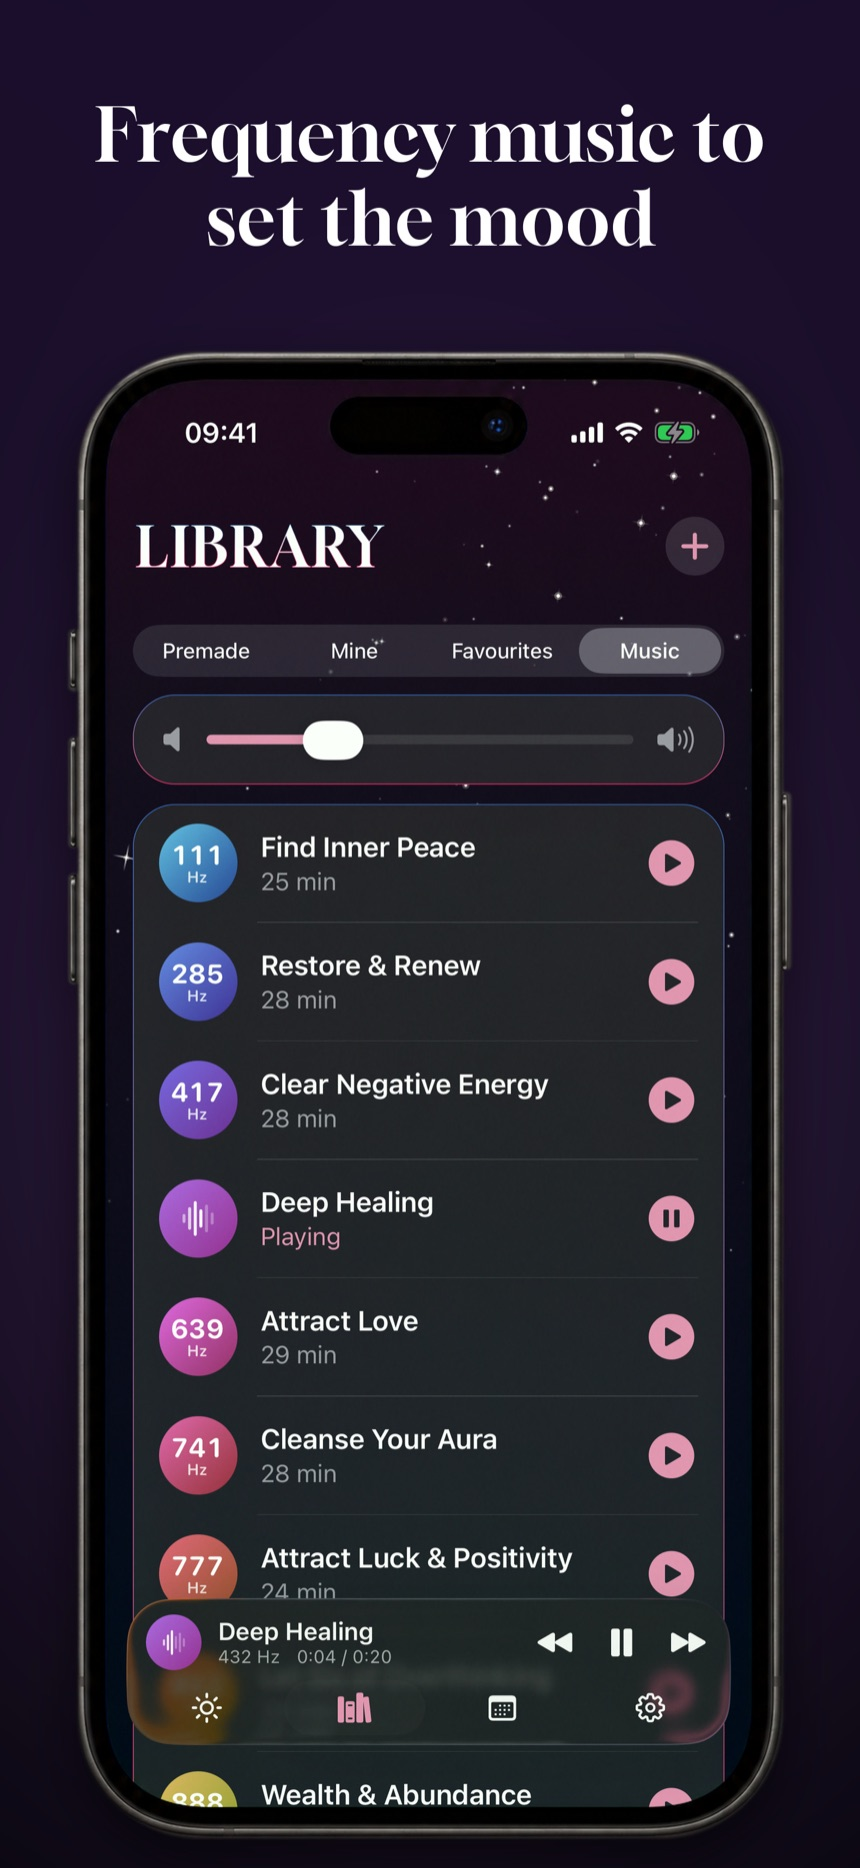
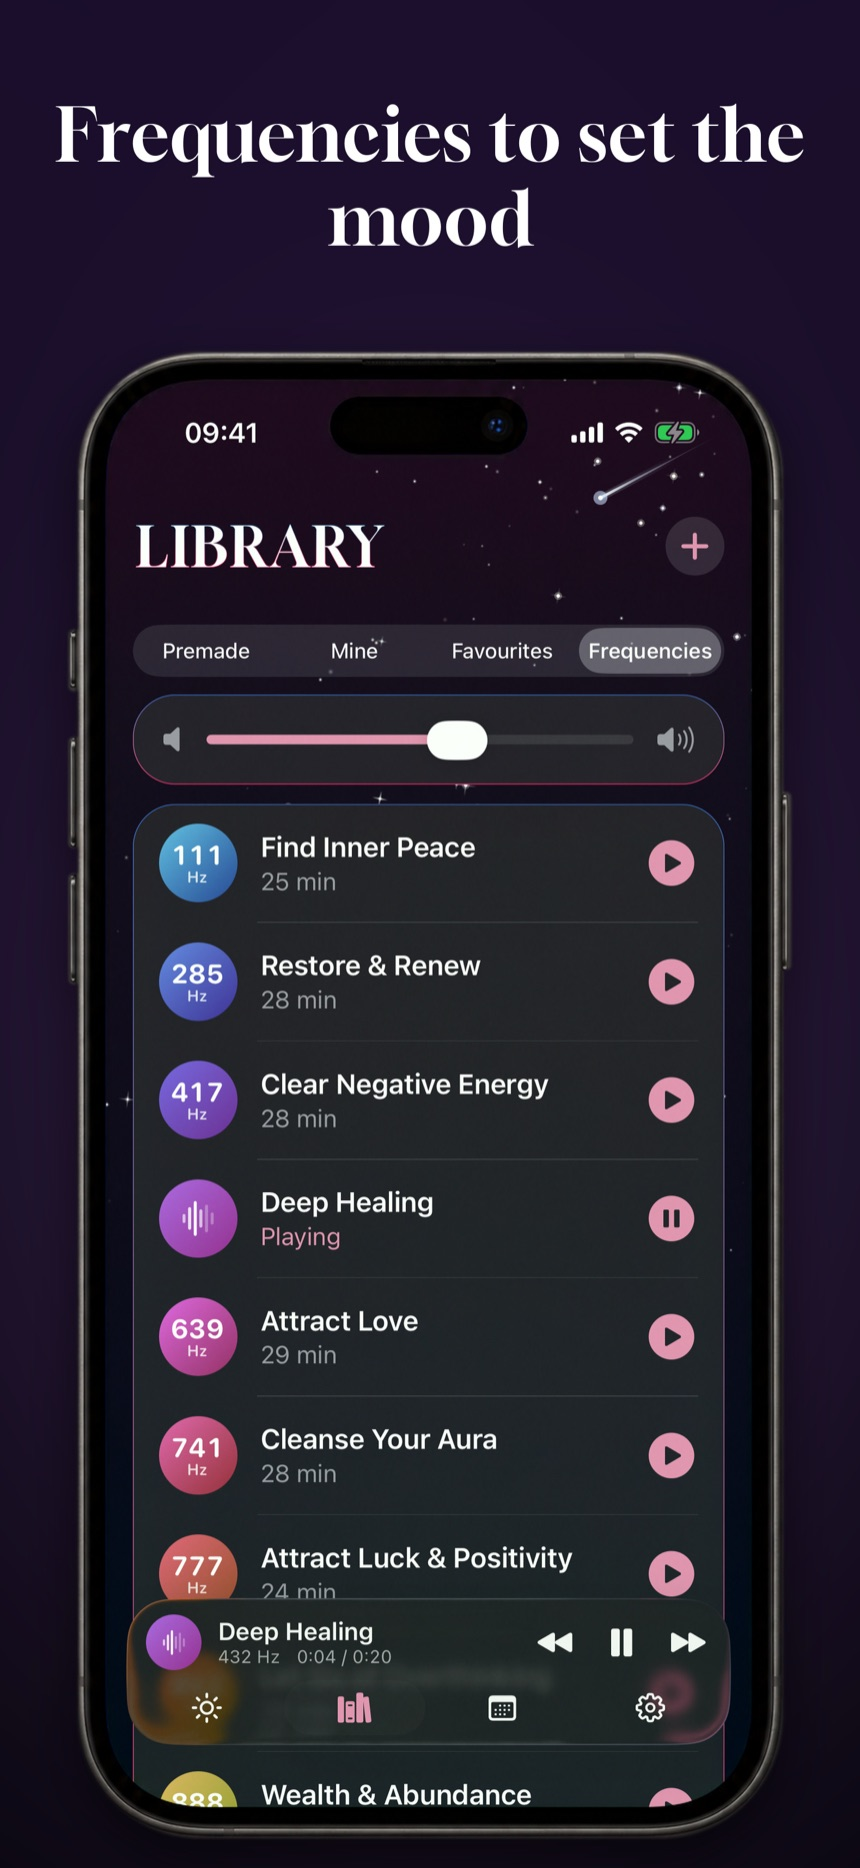
Manifestation Station: Music is now Frequencies in the app; the Library pictures, the feature list, the support page and the privacy policy say so

diff --git a/manifestation-station/index.html b/manifestation-station/index.html
@@ -113,7 +113,7 @@
           <li>200 ready-made manifestations in eight categories, written natively in English and in French, or write your own</li>
           <li>Manifestations delivered through the day as notifications, in your own voice if you like</li>
           <li>A calendar and streaks that track your consistency, with grace days for the day life gets in the way</li>
-          <li>Ten frequency music tracks to play during your routines, downloaded only when you choose one</li>
+          <li>Ten frequencies, from 111 Hz to 963 Hz, to play during your routines, downloaded only when you choose one</li>
           <li>Day, Night or Dynamic appearance, which follows sunrise and sunset</li>
           <li>Fully in English and French, following your iPhone's language</li>
           <li>Export your data any time, or delete it all in one tap</li>
@@ -159,7 +159,7 @@
           <div class="dr-shot"><div class="brk"><span class="b"></span><img class="art" src="../assets/img/manifestation-station/shot-07-player-say.jpg" alt="Say it: the app listens as you say your manifestation out loud" width="860" height="1868" loading="lazy" decoding="async"></div></div>
           <div class="dr-shot"><div class="brk"><span class="b"></span><img class="art" src="../assets/img/manifestation-station/shot-08-player-type.jpg" alt="Type it: the sentence typed by hand, letter by letter, in Day appearance" width="860" height="1868" loading="lazy" decoding="async"></div></div>
           <div class="dr-shot"><div class="brk"><span class="b"></span><img class="art" src="../assets/img/manifestation-station/shot-09-player-hear.jpg" alt="Hear it: a manifestation playing on a loop in a natural voice" width="860" height="1868" loading="lazy" decoding="async"></div></div>
-          <div class="dr-shot"><div class="brk"><span class="b"></span><img class="art" src="../assets/img/manifestation-station/shot-10-library-music.jpg" alt="Frequency music to play during your routines" width="860" height="1868" loading="lazy" decoding="async"></div></div>
+          <div class="dr-shot"><div class="brk"><span class="b"></span><img class="art" src="../assets/img/manifestation-station/shot-10-library-music.jpg" alt="Library, Frequencies: ten frequencies to play during your routines, one of them playing" width="860" height="1868" loading="lazy" decoding="async"></div></div>
         </div>
       </div>
     </section>

diff --git a/privacy.html b/privacy.html
@@ -100,7 +100,7 @@
 
         <h2 id="manifestation-station">Manifestation Station</h2>
 <p>Manifestation Station does not require an account and does not use analytics or advertising. Your manifestations, routines, streaks and voice recordings are stored only on your device. Speech recognition runs on your device and your voice is never uploaded.</p>
-<p>If you choose to use Help me write, the text you type is sent through Fhusster's server to Claude, an AI service by Anthropic, to generate suggestions. Fhusster does not store this text. Anthropic processes it under its commercial terms and privacy policy (<a href="https://www.anthropic.com/legal/privacy" rel="noopener">anthropic.com/legal/privacy</a>). Our server uses your approximate location from your IP address only to check whether Help me write is available in your region, and does not store it. To limit misuse, our server keeps an anonymous app key created by Apple's App Attest (it does not identify you or your device) and a request count for it. Request counts are deleted within 40 days, and app keys that have not been used for 180 days are deleted. Music tracks are downloaded from Apple's servers when you choose them.</p>
+<p>If you choose to use Help me write, the text you type is sent through Fhusster's server to Claude, an AI service by Anthropic, to generate suggestions. Fhusster does not store this text. Anthropic processes it under its commercial terms and privacy policy (<a href="https://www.anthropic.com/legal/privacy" rel="noopener">anthropic.com/legal/privacy</a>). Our server uses your approximate location from your IP address only to check whether Help me write is available in your region, and does not store it. To limit misuse, our server keeps an anonymous app key created by Apple's App Attest (it does not identify you or your device) and a request count for it. Request counts are deleted within 40 days, and app keys that have not been used for 180 days are deleted. Frequency tracks are downloaded from Apple's servers when you choose them.</p>
 <p>You can turn Help me write off at any time in Settings, and delete all app data from Settings or by deleting the app. Questions: <a href="mailto:contact@fhusster.com">contact@fhusster.com</a>.</p>
 
 <h2>Changes</h2>

diff --git a/manifestation-station/support.html b/manifestation-station/support.html
@@ -90,8 +90,8 @@
         <h2>Hear it and recording your voice</h2>
         <p>Every ready-made manifestation comes with a natural voice in English and in French. For a sentence you wrote yourself, tap <em>Record in your voice</em>: record it once, check it, and trim it if you like. A sentence of your own has no voice until you record it. Hear plays with the screen locked and through headphones, at 1x up to 2x, and the pause between reps can be changed in Settings.</p>
 
-        <h2>Music</h2>
-        <p>Ten frequency music tracks are in Library, under Music. Each one downloads from Apple the first time you tap it (about 25 MB) and then plays offline. Music keeps playing through your routines. If a download fails, check your connection and tap the track again.</p>
+        <h2>Frequencies</h2>
+        <p>Ten frequencies are in Library, under Frequencies. Each one downloads from Apple the first time you tap it (about 25 MB) and then plays offline. It keeps playing through your routines. If a download fails, check your connection and tap the track again.</p>
 
         <h2>Reminders and daily manifestations</h2>
         <p>Each scheduled routine can remind you when it's time. In Settings, under Notifications, you can also receive 1 to 12 manifestations through the day, in your own voice if you recorded one. If nothing arrives, check that notifications for Manifestation Station are allowed in iOS Settings and that Focus isn't silencing them.</p>
